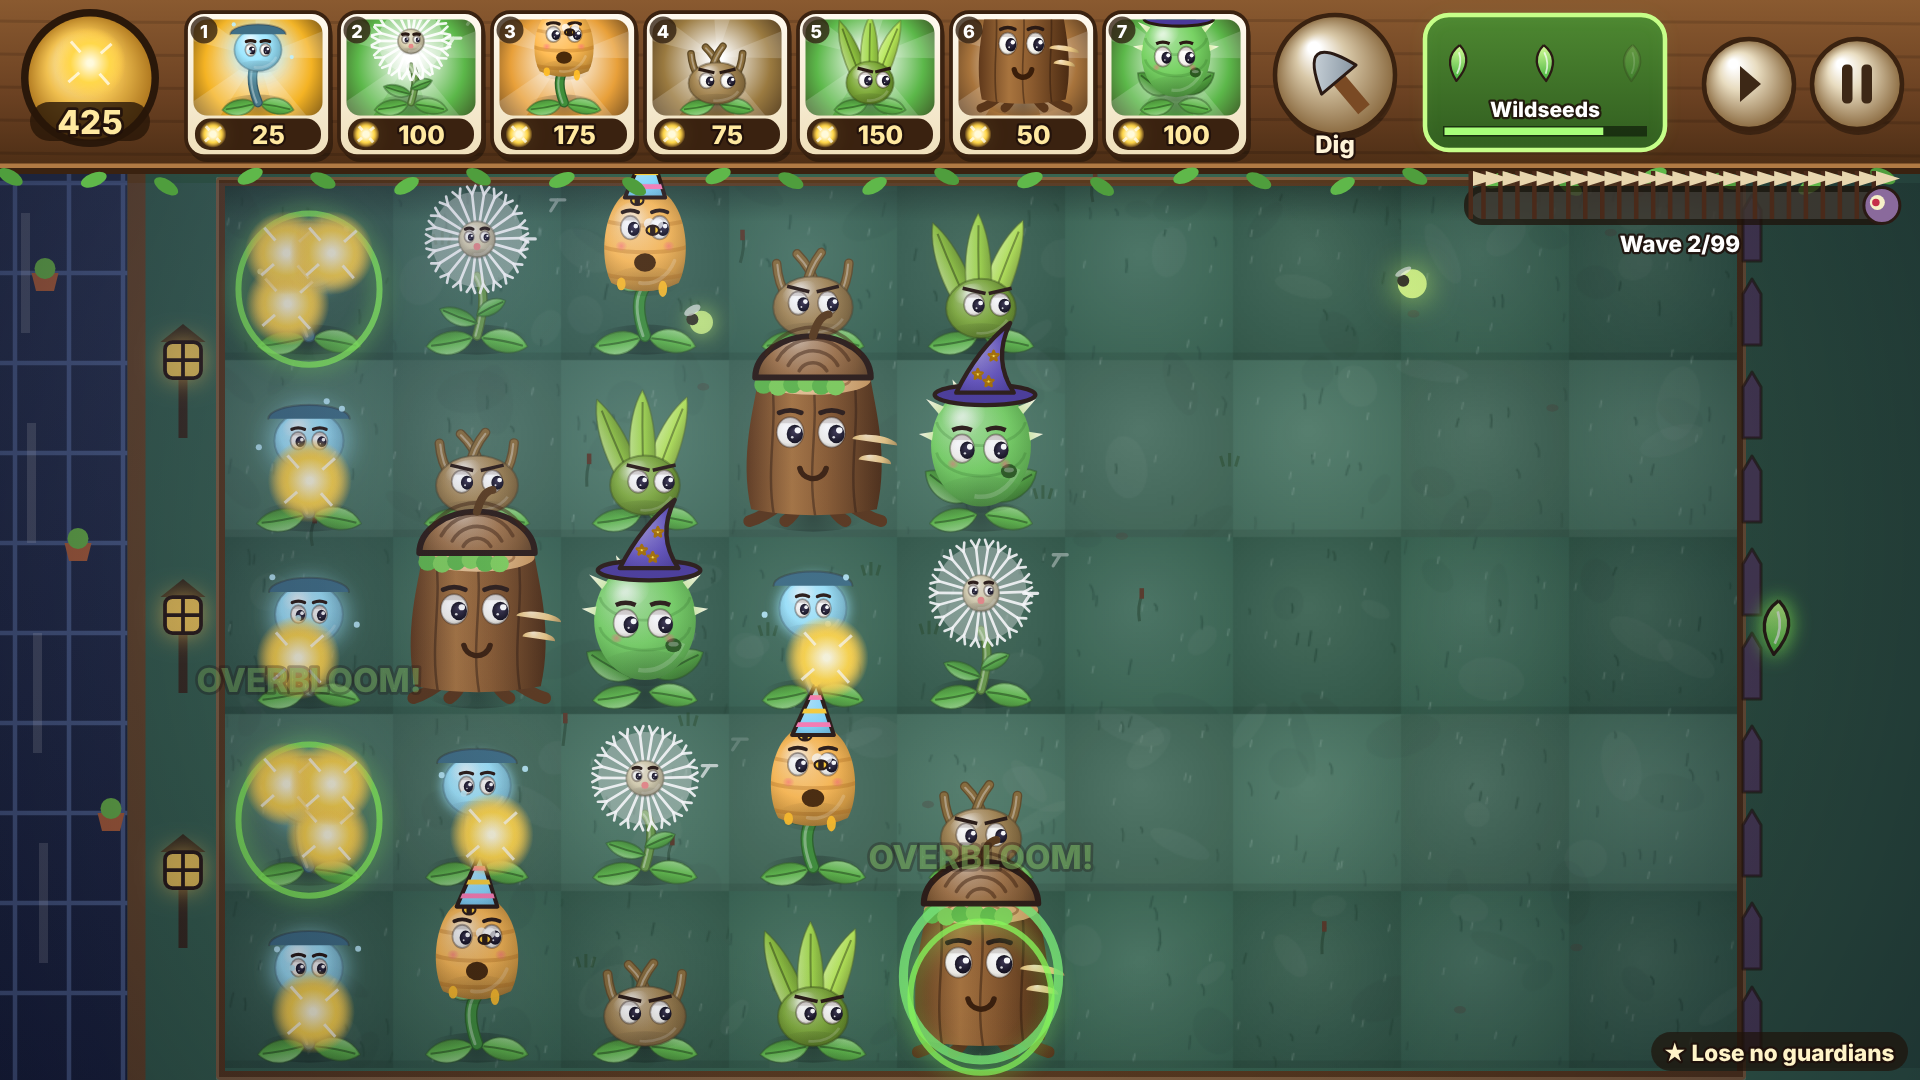
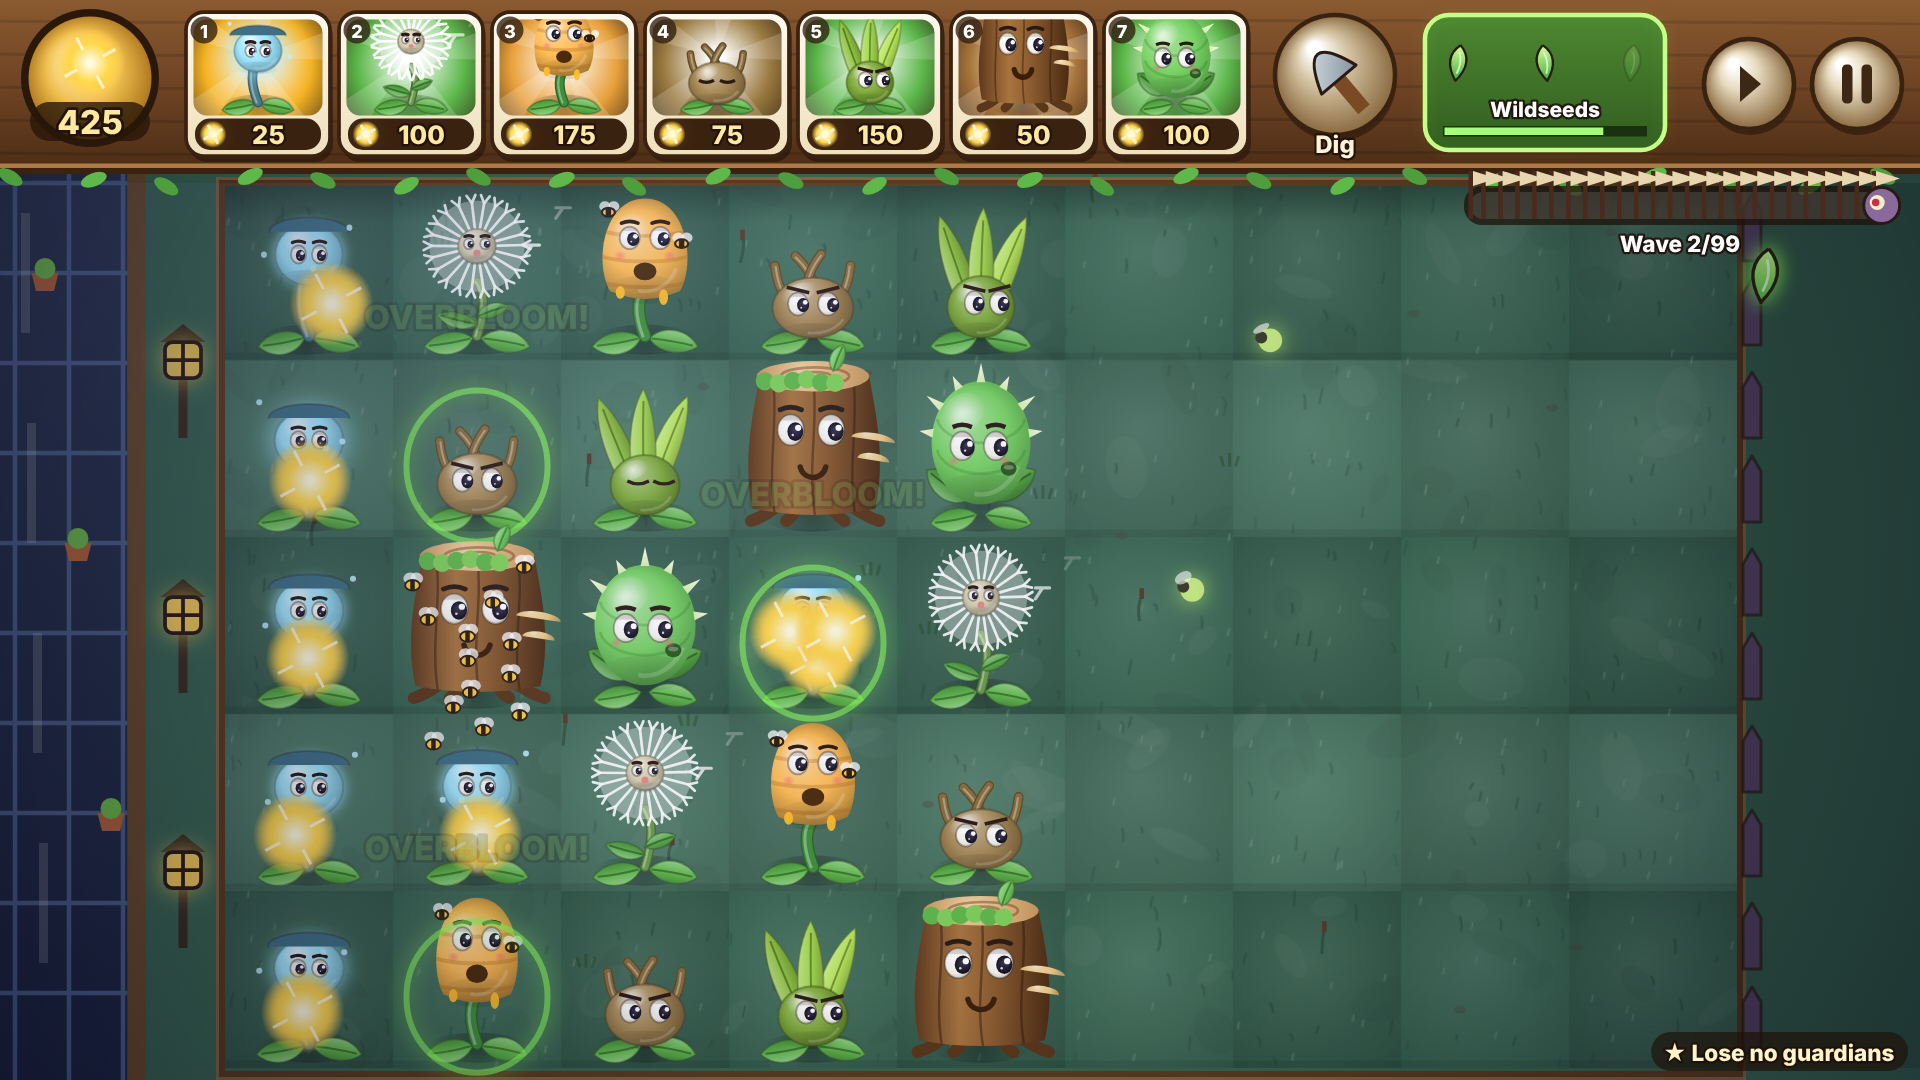
Remove cosmetics for now: boosts-only Store, refund past purchases
- COSMETICS_ENABLED switch (off): no hats or skins on guardians, in cards,
  menus, Lexicon or the Store; the code stays for later
- Store now sells only the permanent boosts
- Players who already bought hats/skins get their Acorns refunded once
- Smoke test checks the Store has no cosmetics and boosts still work

Claude-Session: https://claude.ai/code/session_01Fiiq1trLoNP3zvseY7J4Gr

diff --git a/www/js/main.js b/www/js/main.js
@@ -1,7 +1,7 @@
 // Bloomguard — menus, story, progression and platform integration.
 import {
   GUARDIANS, ROTLINGS, ENEMY_INFO, WORLDS, LEVELS, LEVELS_PER_WORLD, ACHIEVEMENTS, MAX_RANK, RANK_COST, loadoutSlots,
-  HATS, SKINS, BOOSTS, MODIFIERS, POTLUCK, dailyLevel, todayKey, LORE, ROLES, BOSS_TITLES,
+  HATS, SKINS, BOOSTS, MODIFIERS, POTLUCK, dailyLevel, todayKey, LORE, ROLES, BOSS_TITLES, COSMETICS_ENABLED,
 } from './data.js';
 import { Game } from './game.js';
 import { drawGuardian, drawRotling, drawPortrait, drawBackdrop, makeDecor, drawClouds, drawGroundDetails, drawCrystal } from './art.js';
@@ -16,6 +16,17 @@ import { loadSprites, setOverride, setBypass, entryFor, frameFor, drawEntry } fr
 const desktop = window.bloomDesktop || null;
 let data = store.load();
 setAudio({ sfx: data.settings.sfx, music: data.settings.music });
+// Cosmetics are switched off for now: refund anything bought and clear what was worn.
+const cos = (g) => (COSMETICS_ENABLED ? data.equipped[g] || null : null);
+let cosmeticRefund = 0;
+if (!COSMETICS_ENABLED && (data.owned.hats.length || data.owned.skins.length)) {
+  for (const h of data.owned.hats) cosmeticRefund += (HATS[h] || { price: 0 }).price;
+  for (const k of data.owned.skins) cosmeticRefund += (SKINS[k] || { price: 0 }).price;
+  data.acorns += cosmeticRefund;
+  data.owned = { hats: [], skins: [] };
+  data.equipped = {};
+  store.save(data);
+}
 
 const $ = (s) => document.querySelector(s);
 const ui = $('#ui');
@@ -355,7 +366,7 @@ function menuScene(cv) {
     ctx.beginPath(); ctx.moveTo(320, 520); ctx.quadraticCurveTo(640, 560, 760, 720); ctx.lineTo(560, 720); ctx.quadraticCurveTo(520, 580, 320, 540); ctx.fill();
     // guardians lined along the front
     guards.forEach((g, i) => {
-      const eq = data.equipped[g] || {};
+      const eq = cos(g) || {};
       drawGuardian(ctx, g, 120 + i * 120 + mx * 44, 690 + my * 8, 120, t + i, { seed: i * 2, hat: eq.hat, skin: eq.skin });
     });
     drawPortrait(ctx, 'wren', 470 + mx * 44, 600, 170, t);
@@ -676,7 +687,7 @@ const SCREENS = {
 
   store() {
     stopGame();
-    let tab = 'hats';
+    let tab = COSMETICS_ENABLED ? 'hats' : 'boosts';
     const owned = data.guardians.filter((g) => GUARDIANS[g]);
     let sel = owned.includes('thornling') ? 'thornling' : owned[0];
     const body = el('div', { class: 'store' });
@@ -693,14 +704,14 @@ const SCREENS = {
       g.addColorStop(0, '#fff6d8'); g.addColorStop(1, '#e8d6ae');
       ctx.fillStyle = g; ctx.fillRect(0, 0, 360, 360);
       ctx.fillStyle = '#7cc65b'; ctx.beginPath(); ctx.ellipse(180, 320, 150, 34, 0, 0, Math.PI * 2); ctx.fill();
-      const eq = data.equipped[sel] || {};
+      const eq = cos(sel) || {};
       drawGuardian(ctx, sel, 180, 320, 250, (performance.now() - t0) / 1000, { hat: eq.hat, skin: eq.skin, seed: 1 });
     };
     function render() {
       body.innerHTML = '';
       const nc = currencyBar(); chips.replaceWith(nc); chips = nc;
-      const eq = data.equipped[sel] || (data.equipped[sel] = {});
-      const tabs = el('div', { class: 'tabs' }, ['hats', 'skins', 'boosts'].map((k) => el('button', { class: tab === k ? 'on' : '', onclick: () => { tab = k; sfx('click'); render(); } }, { hats: '🎩 Hats', skins: '🎨 Skins', boosts: '⚡ Boosts' }[k])));
+      const eq = COSMETICS_ENABLED ? data.equipped[sel] || (data.equipped[sel] = {}) : {};
+      const tabs = el('div', { class: 'tabs' }, (COSMETICS_ENABLED ? ['hats', 'skins', 'boosts'] : ['boosts']).map((k) => el('button', { class: tab === k ? 'on' : '', onclick: () => { tab = k; sfx('click'); render(); } }, { hats: '🎩 Hats', skins: '🎨 Skins', boosts: '⚡ Boosts' }[k])));
       const items = el('div', { class: 'items' });
       if (tab === 'boosts') {
         for (const [k, b] of Object.entries(BOOSTS)) {
@@ -731,10 +742,11 @@ const SCREENS = {
               } }, `🌰 ${it.price}`)));
         }
       }
-      const picker = el('div', { class: 'picker' }, owned.map((g) => el('button', { class: g === sel ? 'on' : '', title: GUARDIANS[g].name, onclick: () => { sel = g; sfx('click'); render(); } }, portrait(g, 46, false, data.equipped[g]))));
-      body.append(el('div', { class: 'store-left' }, preview, el('h3', {}, GUARDIANS[sel].name), picker), el('div', { class: 'store-right' }, tabs, items));
+      const picker = el('div', { class: 'picker' }, owned.map((g) => el('button', { class: g === sel ? 'on' : '', title: GUARDIANS[g].name, onclick: () => { sel = g; sfx('click'); render(); } }, portrait(g, 46, false, cos(g)))));
+      if (COSMETICS_ENABLED) body.append(el('div', { class: 'store-left' }, preview, el('h3', {}, GUARDIANS[sel].name), picker), el('div', { class: 'store-right' }, tabs, items));
+      else body.append(el('div', { class: 'store-right' }, items));
     }
-    ui.append(bar, el('p', { class: 'sub' }, 'Earn Acorns from levels, daily challenges, mini-games and the Nursery. Cosmetics are bought once and can be worn by any guardian.'), body);
+    ui.append(bar, el('p', { class: 'sub' }, COSMETICS_ENABLED ? 'Earn Acorns from levels, daily challenges, mini-games and the Nursery. Cosmetics are bought once and can be worn by any guardian.' : 'Earn Acorns from levels, daily challenges, mini-games and the Nursery, and spend them on permanent boosts.'), body);
     render();
     anim();
   },
@@ -886,7 +898,7 @@ const SCREENS = {
     startMusic(lv ? lv.world : 5);
     game = new Game(canvas, {
       level, loadout, autoCollect: data.settings.autoCollect, ranks: data.ranks,
-      cosmetics: data.equipped, boosts: data.boosts,
+      cosmetics: COSMETICS_ENABLED ? data.equipped : {}, boosts: data.boosts,
       onPause: () => pause(),
       onEnd: (res) => onEnd(level, loadout, res),
     });
@@ -1047,7 +1059,7 @@ const SCREENS = {
       for (const k of lists[tab]) {
         const ok = known(k);
         const card = el('button', { class: `lex-card ${k === sel ? 'on' : ''} ${ok ? '' : 'locked'}`, onclick: () => { sel = k; sfx('click'); renderGrid(); renderDetail(); } });
-        const pc = portrait(k, 64, !GUARDIANS[k], GUARDIANS[k] ? data.equipped[k] : null);
+        const pc = portrait(k, 64, !GUARDIANS[k], GUARDIANS[k] ? cos(k) : null);
         if (!ok) pc.classList.add('silhouette');
         card.append(pc, el('span', {}, ok ? (GUARDIANS[k] || ROTLINGS[k]).name : '???'));
         grid.append(card);
@@ -1072,7 +1084,7 @@ const SCREENS = {
       ctx.fillStyle = isG ? '#6fbf4a' : '#4a3a5a';
       ctx.beginPath(); ctx.ellipse(220, 392, 170, 34, 0, 0, Math.PI * 2); ctx.fill();
       if (!known(sel)) ctx.filter = 'brightness(0)';
-      if (isG) { const eq = data.equipped[sel] || {}; drawGuardian(ctx, sel, 220, 392, 290, t, { hat: eq.hat, skin: eq.skin, seed: 2 }); }
+      if (isG) { const eq = cos(sel) || {}; drawGuardian(ctx, sel, 220, 392, 290, t, { hat: eq.hat, skin: eq.skin, seed: 2 }); }
       else { const d = ROTLINGS[sel]; drawRotling(ctx, { k: sel, x: 240, y: 392 + (d.flying ? 40 : 0), def: d, seed: 2, shell: d.shell || 0, shield: d.shield || 0, hurt: 0 }, d.boss ? 150 : d.big ? 210 : d.small ? 400 : 270, t); }
       ctx.filter = 'none';
     };
@@ -1261,4 +1273,4 @@ if ('serviceWorker' in navigator && location.protocol === 'https:' && !window.Ca
 // Test hook (used by automated smoke tests only)
 window.__bloomguard = { get game() { return game; }, show, get data() { return data; }, set mapWorld(v) { mapWorld = v; } };
 
-loadSprites().finally(() => show('title'));
+loadSprites().finally(() => { show('title'); if (cosmeticRefund) toast(`Cosmetics removed: refunded ${cosmeticRefund} 🌰`); });

diff --git a/www/js/data.js b/www/js/data.js
@@ -242,7 +242,8 @@ export const BOSS_TITLES = {
   monarch: 'Thief of the Hearthseed',
 };
 
-// ---------- Store: Acorns buy cosmetics and permanent boosts ----------
+// ---------- Store: Acorns buy permanent boosts (hats/skins are switched off for now) ----------
+export const COSMETICS_ENABLED = false;
 export const HATS = {
   straw:      { name: 'Sun Hat', price: 80 },
   beanie:     { name: 'Cozy Beanie', price: 100 },
